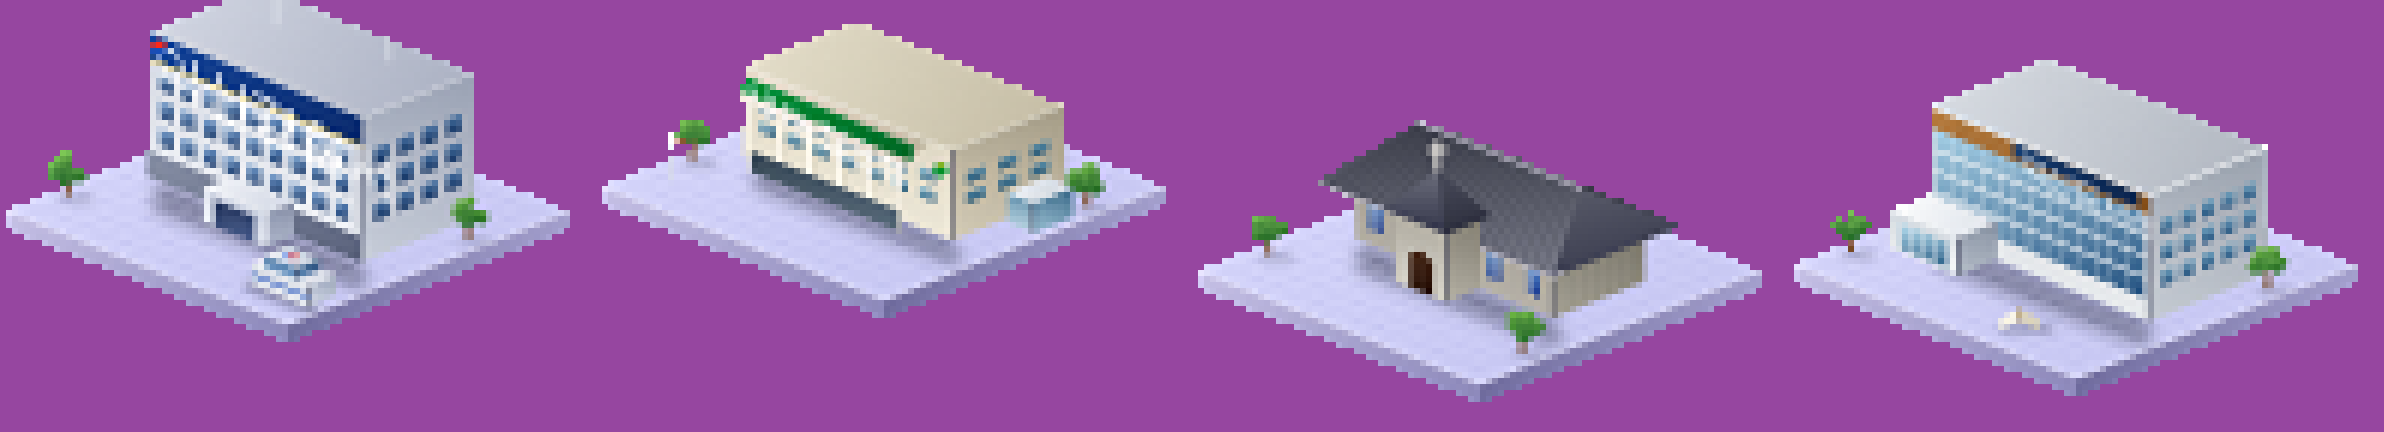
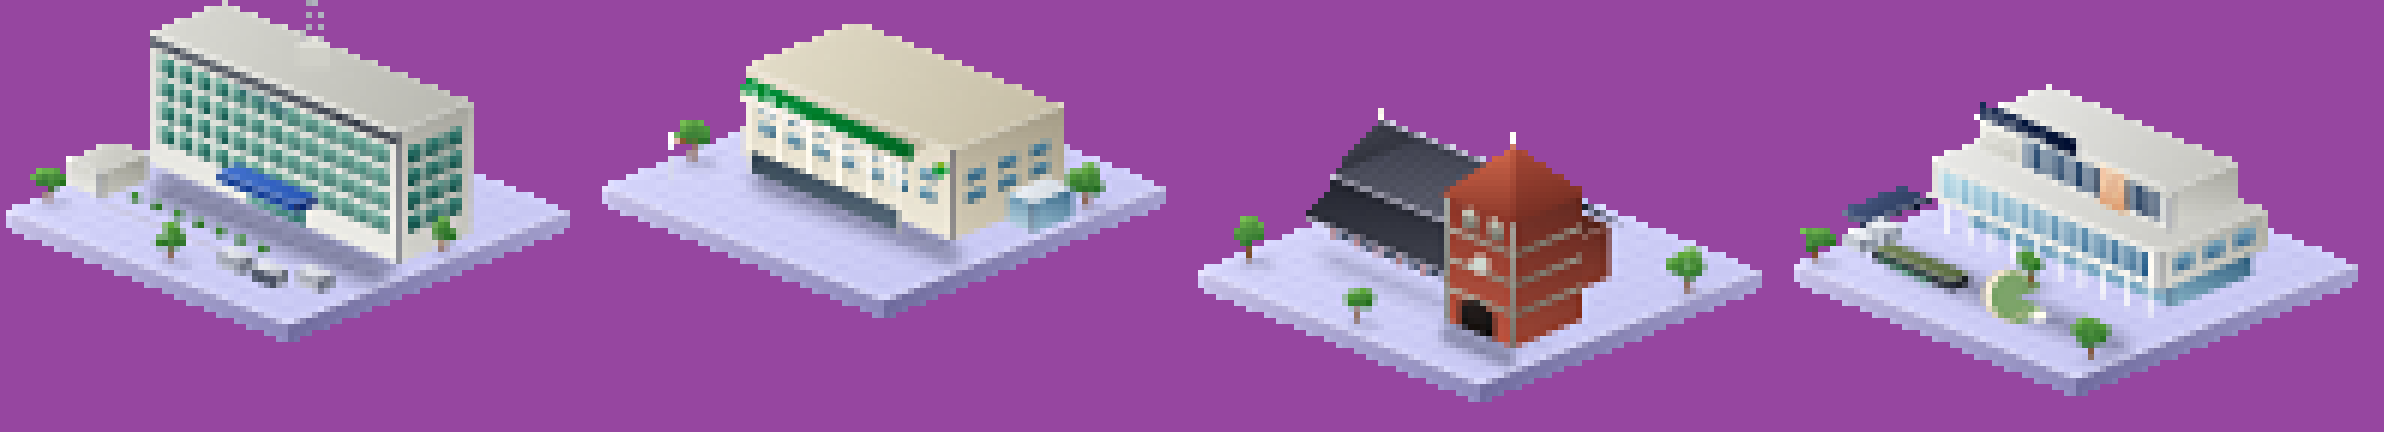
축제 문구(국화축제 복원) + 경찰서·성당·도서관 사진 기반 재작업
Claude-Session: https://claude.ai/code/session_01EzBQD2LzEZVCY5MfsDh6Mu

Changed region(s): [[0.0, 0.0, 0.2173, 0.7222], [0.745, 0.1204, 0.9622, 0.8426], [0.4966, 0.2708, 0.7139, 0.8426]]

diff --git a/seoultycoon/tools/make_iksan_civic.py b/seoultycoon/tools/make_iksan_civic.py
@@ -11,38 +11,49 @@ def sign(s, a0, a1, b, z0, z1, txt, bg, fg, kk=0.70, size=60):
     fw = G(a1 - 0.02, b)[0] - G(a0 + 0.02, b)[0]
     s.text_face(txt, (G(a0 + 0.02, b)[0], G(a0 + 0.02, b, z1 - 0.5)[1]), 0, 0, fw * kk / (size * 0.55 * len(txt)), fg, font=FONT_K, size=size, shear=0.5)
 
-# ---------------- b10 익산경찰서 (흰 석재 + 남색 유리창 + 파란 간판, 지붕 위 경광 안테나, 순찰차) ----------------
+# ---------------- b10 익산경찰서 (사진: 흰 석재 5층 장방형 + 청록 유리 창 격자 + 중앙 안테나탑 + 파란 현관 캐노피) ----------------
 def police():
     s = Sc(59, 10); G = s.G; s.ground(); d = ImageDraw.Draw(s.im)
-    A0, A1, B0, B1, HH = 0.10, 0.86, 0.20, 0.60, 24.0
-    s.shadow([G(0.14, B1), G(A1, B1), G(1.0, 0.72), G(0.26, 0.74)], 100, 10)
-    s.box(A0, A1, B0, B1, HH, (hx('f4f6fa'), hx('c8ceda')), (hx('c8ceda'), hx('9aa2b4')), (hx('d4d8e4'), hx('aab0c2')))
-    # 1층 석재 기단 + 3개 층 창 격자
-    s.grad([G(A0, B1, 0), G(A1, B1, 0), G(A1, B1, 4.2), G(A0, B1, 4.2)], hx('8a92a8'), hx('5a627c'), (0.2, 1))
-    s.win_grid_L(A0 + 0.03, A1 - 0.03, B1, 5.0, 19.0, 9, 3, hx('7aa4d4'), hx('1e3a68'), pad=0.20)
-    s.win_grid_R(B0 + 0.03, B1 - 0.03, A1, 5.0, 19.0, 4, 3, hx('5a84b4'), hx('16305a'), pad=0.20)
-    for k in range(1, 9): s.line([G(A0 + 0.03 + (A1 - A0 - 0.06) * k / 9, B1, 4.4), G(A0 + 0.03 + (A1 - A0 - 0.06) * k / 9, B1, 19.6)], hx('e8ecf4', 150), 2)
-    # 파란 간판 띠 + 글씨
-    sign(s, A0, A1, B1, 19.6, 24.0, '익산경찰서', (hx('1c4ca0'), hx('0e2c6c')), hx('ffffff'), 0.66)
-    s.line([G(A0, B1, 19.6), G(A1, B1, 19.6)], hx('e8c030'), 3)
-    # 중앙 현관 돌출 캐노피 + 기둥
-    s.box(0.40, 0.62, B1, B1 + 0.10, 5.6, (hx('e4e8f2'), hx('b8c0d4')), (hx('b0b8cc'), hx('8890a8')), (hx('f4f6fa'), hx('d0d6e4')))
-    s.grad([G(0.44, B1 + 0.10, 0), G(0.58, B1 + 0.10, 0), G(0.58, B1 + 0.10, 4.2), G(0.44, B1 + 0.10, 4.2)], hx('2a3a60'), hx('4c6090'), (0, 1))
-    for a in (0.41, 0.61): s.line([G(a, B1 + 0.09, 0), G(a, B1 + 0.09, 5.4)], hx('f4f6fc'), 5)
-    # 옥상 안테나 + 경광등
-    x, y = G(0.30, 0.34, HH); d.line([(x, y), (x, y - 70)], fill=hx('dfe3ec'), width=5); d.ellipse([x - 9, y - 82, x + 9, y - 64], fill=hx('e83030'))
-    x, y = G(0.66, 0.30, HH); d.line([(x, y), (x, y - 44)], fill=hx('dfe3ec'), width=4)
-    # 태극 마크(간판 왼쪽)
-    x, y = G(0.14, B1, 22.0); d.ellipse([x - 10, y - 10, x + 10, y + 10], fill=hx('e03030')); d.pieslice([x - 10, y - 10, x + 10, y + 10], 0, 180, fill=hx('2a50b0'))
-    # 앞마당: 순찰차(흰 바탕 파란 줄) + 가로수
-    for (a, b) in ((0.76, 0.84),):
-        p = [G(a, b - 0.05), G(a + 0.20, b - 0.05), G(a + 0.20, b + 0.05), G(a, b + 0.05)]
-        s.shadow([G(a - 0.02, b + 0.02), G(a + 0.22, b + 0.02), G(a + 0.24, b + 0.08), G(a, b + 0.08)], 90, 5)
-        s.box(a, a + 0.20, b - 0.05, b + 0.05, 3.4, (hx('f6f8fc'), hx('c0c8d8')), (hx('d4dae8'), hx('9aa4ba')), (hx('f0f2f8'), hx('d4d8e4')))
-        s.line([G(a, b + 0.05, 1.7), G(a + 0.20, b + 0.05, 1.7)], hx('2a58c0'), 4)
-        s.box(a + 0.04, a + 0.15, b - 0.04, b + 0.04, 2.0, (hx('9cc4e8'), hx('385e8c')), (hx('7aa0cc'), hx('284870')), (hx('e8ecf4'), hx('c0c8d8')), z0=3.4)
-        x, y = G(a + 0.10, b, 5.4); d.rectangle([x - 5, y - 3, x + 5, y + 1], fill=hx('e83030')); d.rectangle([x - 12, y - 3, x - 6, y + 1], fill=hx('2a58e0'))
-    s.tree(0.04, 0.82, 0.7); s.tree(0.94, 0.30, 0.7)
+    A0, A1, B0, B1, HH = 0.05, 0.93, 0.28, 0.54, 22.0
+    s.shadow([G(0.10, B1), G(A1, B1), G(1.0, 0.68), G(0.20, 0.70)], 100, 10)
+    s.box(A0, A1, B0, B1, HH, (hx('f6f6f2'), hx('cfcfc8')), (hx('d6d6d0'), hx('a4a49c')), (hx('dcdcd6'), hx('b8b8b0')))
+    # 옥상 난간 아래 작은 창 띠 + 4개 층의 청록 유리 창(흰 프레임) 격자
+    s.grad([G(A0, B1, 19.6), G(A1, B1, 19.6), G(A1, B1, 21.2), G(A0, B1, 21.2)], hx('4a5260'), hx('2a303c'), (0, 1))
+    for k in range(1, 40): s.line([G(A0 + (A1 - A0) * k / 40, B1, 19.6), G(A0 + (A1 - A0) * k / 40, B1, 21.2)], hx('e8e8e0', 200), 2)
+    cols = 13
+    for fl in range(4):
+        z0 = 4.4 + fl * 3.8; z1 = z0 + 2.8
+        for i in range(cols):
+            a0 = A0 + 0.03 + (A1 - A0 - 0.06) * (i + 0.12) / cols; a1 = A0 + 0.03 + (A1 - A0 - 0.06) * (i + 0.88) / cols
+            s.grad([G(a0, B1, z0), G(a1, B1, z0), G(a1, B1, z1), G(a0, B1, z1)], hx('6ab4a0'), hx('1e5a52'), (0.2, 1))
+            s.line([G((a0 + a1) / 2, B1, z0), G((a0 + a1) / 2, B1, z1)], hx('e8f0ec', 170), 2)
+    for fl in range(4):
+        z0 = 4.4 + fl * 3.8; z1 = z0 + 2.8
+        for i in range(3):
+            b0 = B0 + 0.03 + (B1 - B0 - 0.06) * (i + 0.12) / 3; b1 = B0 + 0.03 + (B1 - B0 - 0.06) * (i + 0.88) / 3
+            s.grad([G(A1, b0, z0), G(A1, b1, z0), G(A1, b1, z1), G(A1, b0, z1)], hx('4a9488'), hx('164640'), (0.2, 1))
+    # 간판 띠 '익산경찰서'(2층 위 흰 벽 위의 짙은 글씨)
+    fw = G(0.66, B1)[0] - G(0.34, B1)[0]
+    s.text_face('익산경찰서', (G(0.36, B1)[0], G(0.36, B1, 19.4)[1]), 0, 0, fw * 0.60 / 320.0, hx('1c3a5c'), font=FONT_K, size=60, shear=0.5)
+    # 1층 중앙 유리 현관 + 파란 캐노피
+    s.grad([G(0.40, B1, 0), G(0.60, B1, 0), G(0.60, B1, 4.0), G(0.40, B1, 4.0)], hx('9cd4cc'), hx('2a6a64'), (0, 1))
+    s.box(0.36, 0.64, B1, B1 + 0.07, 1.6, (hx('2a58b4'), hx('163a84')), (hx('1c3c88'), hx('102a64')), (hx('4a78d0'), hx('2a58b4')), z0=4.2)
+    s.line([G(0.36, B1 + 0.07, 4.2), G(0.64, B1 + 0.07, 4.2)], hx('e8f0ff'), 2)
+    # 중앙 안테나 철탑(격자 탑)
+    cx, cy = G(0.50, 0.41, HH); d.rectangle([cx - 22, cy - 30, cx + 22, cy], fill=hx('d0d0c8')); d.polygon([(cx - 22, cy - 30), (cx + 22, cy - 30), (cx + 15, cy - 38), (cx - 15, cy - 38)], fill=hx('e4e4de'))
+    for lv in range(5):
+        y0 = cy - 38 - lv * 17; y1 = y0 - 17; hw0 = 13 - lv * 1.4; hw1 = 13 - (lv + 1) * 1.4
+        d.line([(cx - hw0, y0), (cx - hw1, y1)], fill=hx('a8aab4'), width=3); d.line([(cx + hw0, y0), (cx + hw1, y1)], fill=hx('a8aab4'), width=3)
+        d.line([(cx - hw0, y0), (cx + hw1, y1)], fill=hx('8a8c98'), width=2); d.line([(cx + hw0, y0), (cx - hw1, y1)], fill=hx('8a8c98'), width=2); d.line([(cx - hw1, y1), (cx + hw1, y1)], fill=hx('c4c6d0'), width=3)
+    d.line([(cx, cy - 38 - 5 * 17), (cx, cy - 38 - 5 * 17 - 24)], fill=hx('d8dae2'), width=3)
+    # 왼쪽 별채(흰 단층) + 오른쪽 주차장(차량 몇 대) + 앞 화단 + 가로수
+    s.box(0.0, 0.12, 0.62, 0.78, 4.4, (hx('f4f4f0'), hx('c8c8c0')), (hx('c8c8c0'), hx('98988e')), (hx('e0e0da'), hx('c0c0b8')))
+    for (a, b, col) in ((0.62, 0.82, 'd8dce4'), (0.74, 0.82, '3a4458'), (0.84, 0.76, 'e8e8ee')):
+        s.box(a, a + 0.08, b, b + 0.05, 2.4, (hx(col), hx('7a8090')), (hx('9aa0ac'), hx('5c6270')), (hx('f0f2f6'), hx('c4c8d2')))
+    for k in range(7):
+        x, y = G(0.18 + 0.075 * k, 0.72); d.ellipse([x - 7, y - 5, x + 7, y + 4], fill=hx('3e7a3c')); d.ellipse([x - 4, y - 9, x + 3, y - 3], fill=hx('5ca058'))
+    s.line([G(0.14, 0.80), G(0.58, 0.80)], hx('c8c6d8'), 4)
+    s.tree(0.03, 0.88, 0.6); s.tree(0.50, 0.92, 0.6); s.tree(0.95, 0.40, 0.6)
     return s.finish()
 
 # ---------------- b12 은행 (NH농협은행 익산: 흰 석재 + 기둥 + 녹색 간판) ----------------
@@ -68,67 +79,98 @@ def bank():
     s.tree(0.04, 0.72, 0.7); s.tree(0.94, 0.22, 0.7)
     return s.finish()
 
-# ---------------- b13 나바위성당 (한식 팔작지붕 + 회벽돌 + 앞 종탑 + 십자가) ----------------
+# ---------------- b13 나바위성당 (사진: 붉은 벽돌 + 회색 석재 모서리, 검은 기와 겹지붕 장방 본당, 오른쪽 앞 높은 종탑) ----------------
 def church():
     s = Sc(69, 13); G = s.G; s.ground(); d = ImageDraw.Draw(s.im)
-    A0, A1, B0, B1, HH = 0.14, 0.84, 0.26, 0.58, 9.0
-    s.shadow([G(0.16, B1), G(A1, B1), G(1.0, 0.70), G(0.28, 0.72)], 100, 10)
-    # 본당 벽: 회청색 벽돌 + 줄눈
-    s.box(A0, A1, B0, B1, HH, (hx('c8c4bc'), hx('9c978c')), (hx('a8a498'), hx('787468')), (hx('484c58'), hx('2c2e38')))
-    for z in range(1, 9): s.line([G(A0, B1, z), G(A1, B1, z)], hx('78746a', 90), 2)
-    for k in range(1, 8): s.line([G(A1, B0 + (B1 - B0) * k / 8, 0), G(A1, B0 + (B1 - B0) * k / 8, HH)], hx('606258', 80), 2)
-    # 아치창(스테인드글라스 푸른색)
-    for k in range(5):
-        a = A0 + 0.07 + (A1 - A0 - 0.14) * k / 4
-        s.grad([G(a - 0.022, B1, 2.4), G(a + 0.022, B1, 2.4), G(a + 0.022, B1, 6.6), G(a, B1, 7.6), G(a - 0.022, B1, 6.6)], hx('6a9ad4'), hx('243e8c'), (0.2, 1))
-        s.line([G(a, B1, 2.4), G(a, B1, 7.4)], hx('e8e0d0'), 2)
-    # 한식 팔작지붕: 앞·뒤 경사면 + 처마 곡선 + 기와 줄
-    ov = 0.07; zr = HH + 0.4; RZ = 8.0; bm = (B0 + B1) / 2
-    s.grad([G(A0 - ov, B0 - ov, zr), G(A1 + ov, B0 - ov, zr), G(A1 - 0.06, bm, zr + RZ), G(A0 + 0.06, bm, zr + RZ)], hx('4a4c58'), hx('2a2c36'), (0, 1))
-    s.grad([G(A0 - ov, B1 + ov, zr), G(A1 + ov, B1 + ov, zr), G(A1 - 0.06, bm, zr + RZ), G(A0 + 0.06, bm, zr + RZ)], hx('7a7c8a'), hx('3e404c'), (0, -1), 3)
-    s.grad([G(A1 + ov, B0 - ov, zr), G(A1 + ov, B1 + ov, zr), G(A1 - 0.06, bm, zr + RZ)], hx('5a5c6a'), hx('34364a'), (0.3, 1))
-    for k in range(1, 22):
-        t = k / 22; a = A0 - ov + (A1 - A0 + 2 * ov) * t; at = A0 + 0.06 + (A1 - A0 - 0.12) * t
-        s.line([G(a, B1 + ov, zr), G(at, bm, zr + RZ)], hx('2a2c38', 120), 2)
-    s.line([G(A0 - ov, B1 + ov, zr), G(A1 + ov, B1 + ov, zr)], hx('c8c4d0'), 4)
-    s.line([G(A0 + 0.06, bm, zr + RZ), G(A1 - 0.06, bm, zr + RZ)], hx('b4b0c0'), 5)
-    for aa in (A0 - ov, A1 + ov):                                                        # 추녀 끝 살짝 들림
-        x, y = G(aa, B1 + ov, zr); d.line([(x, y), (x + (14 if aa > 0.5 else -14), y - 8)], fill=hx('c8c4d0'), width=4)
-    # 앞쪽 작은 종탑(출입부) + 십자가
-    s.box(0.40, 0.58, B1, B1 + 0.12, 12.0, (hx('d8d4cc'), hx('aaa69a')), (hx('b4b0a4'), hx('807c70')), (hx('4a4c58'), hx('2e303a')))
-    s.grad([G(0.45, B1 + 0.12, 0), G(0.53, B1 + 0.12, 0), G(0.53, B1 + 0.12, 5.6), G(0.49, B1 + 0.12, 6.8), G(0.45, B1 + 0.12, 5.6)], hx('4a2c1c'), hx('2c1810'), (0, 1))
-    s.grad([G(0.38, B1 + 0.14, 12.0), G(0.60, B1 + 0.14, 12.0), G(0.49, B1 + 0.06, 19.0)], hx('6c6e7c'), hx('34364a'), (0, 1))
-    s.grad([G(0.49, B1 + 0.06, 19.0), G(0.60, B1 + 0.14, 12.0), G(0.60, B1 - 0.02, 12.0)], hx('4a4c5c'), hx('2a2c3a'), (0.3, 1))
-    x, y = G(0.49, B1 + 0.06, 19.0); d.line([(x, y), (x, y - 40)], fill=hx('f4f0e8'), width=6); d.line([(x - 12, y - 28), (x + 12, y - 28)], fill=hx('f4f0e8'), width=6)
-    s.tree(0.05, 0.80, 0.7); s.tree(0.93, 0.78, 0.7)
+    A0, A1, B0, B1 = 0.08, 0.76, 0.30, 0.56
+    BR = (hx('c05a46'), hx('84382c')); BR2 = (hx('9c4636'), hx('642a22')); ST = (hx('b8b4a8'), hx('807c70'))
+    s.shadow([G(0.12, B1 + 0.14), G(A1 + 0.12, B1 + 0.14), G(1.0, 0.72), G(0.22, 0.74)], 100, 10)
+    # 본당 벽: 낮은 붉은 벽돌 + 처마 아래 가는 창 띠(잔 창 열) → 위로 붉은 벽
+    s.box(A0, A1, B0, B1, 8.6, BR, BR2, (hx('7a3a2e'), hx('5a2a22')))
+    for z in range(1, 9): s.line([G(A0, B1, z), G(A1, B1, z)], hx('6a2e24', 70), 2)
+    for k in range(0, 17):
+        a = A0 + 0.04 + (A1 - A0 - 0.08) * k / 16
+        s.grad([G(a - 0.008, B1, 5.4), G(a + 0.008, B1, 5.4), G(a + 0.008, B1, 7.4), G(a - 0.008, B1, 7.4)], hx('e8e4d4'), hx('607890'), (0, 1))
+    # 앞 낮은 회랑(붉은 기둥 + 큰 창) + 그 위 한식 아래 지붕
+    for k in range(0, 9):
+        a = A0 + 0.02 + (A1 - A0 - 0.04) * k / 8
+        s.line([G(a, B1 + 0.06, 0), G(a, B1 + 0.06, 4.2)], hx('8a3e30'), 4)
+    for k in range(0, 8):
+        a0 = A0 + 0.02 + (A1 - A0 - 0.04) * (k + 0.2) / 8; a1 = A0 + 0.02 + (A1 - A0 - 0.04) * (k + 0.8) / 8
+        s.grad([G(a0, B1 + 0.06, 0.5), G(a1, B1 + 0.06, 0.5), G(a1, B1 + 0.06, 3.8), G(a0, B1 + 0.06, 3.8)], hx('7a8aa0'), hx('2a3448'), (0, 1))
+    s.grad([G(A0 - 0.02, B1 + 0.12, 4.0), G(A1 + 0.04, B1 + 0.12, 4.0), G(A1 + 0.04, B1 - 0.01, 8.8), G(A0 - 0.02, B1 - 0.01, 8.8)], hx('4c4e5a'), hx('22242e'), (0, -1), 3)
+    s.line([G(A0 - 0.02, B1 + 0.12, 4.0), G(A1 + 0.04, B1 + 0.12, 4.0)], hx('b8b4c8'), 4)
+    # 본당 큰 지붕: 앞면(밝은 회색 기와) · 뒷면 · 박공 측면 + 기와 줄무늬 + 용마루
+    zr = 8.8; RZ = 7.0; bm = (B0 + B1) / 2
+    s.grad([G(A0 - 0.03, B0 - 0.02, zr), G(A1 + 0.03, B0 - 0.02, zr), G(A1, bm, zr + RZ), G(A0, bm, zr + RZ)], hx('3c3e48'), hx('20222a'), (0, 1))
+    s.grad([G(A0 - 0.03, B1 + 0.02, zr), G(A1 + 0.03, B1 + 0.02, zr), G(A1, bm, zr + RZ), G(A0, bm, zr + RZ)], hx('767888'), hx('3a3c4a'), (0, -1), 3)
+    s.grad([G(A0 - 0.03, B0 - 0.02, zr), G(A0 - 0.03, B1 + 0.02, zr), G(A0, bm, zr + RZ)], hx('4a4c58'), hx('2a2c36'), (0.3, 1))
+    for k in range(1, 30):
+        t = k / 30; s.line([G(A0 - 0.03 + (A1 - A0 + 0.06) * t, B1 + 0.02, zr), G(A0 + (A1 - A0) * t, bm, zr + RZ)], hx('24262e', 130), 2)
+    s.line([G(A0 - 0.03, B1 + 0.02, zr), G(A1 + 0.03, B1 + 0.02, zr)], hx('d8d4e4'), 4); s.line([G(A0, bm, zr + RZ), G(A1, bm, zr + RZ)], hx('c4c0d4'), 5)
+    # 박공 끝 작은 십자가
+    x, y = G(A0, bm, zr + RZ); d.line([(x, y), (x, y - 20)], fill=hx('e8e4dc'), width=4); d.line([(x - 6, y - 14), (x + 6, y - 14)], fill=hx('e8e4dc'), width=4)
+    # 오른쪽 앞 종탑(높은 사각탑): 붉은 벽돌 + 회색 돌띠 + 둥근 창 + 맨 위 루버 아치창 + 붉은 뾰족 지붕 + 십자가
+    TA0, TA1, TB0, TB1, TH = 0.66, 0.90, 0.54, 0.78, 21.0
+    s.shadow([G(TA0, TB1), G(TA1, TB1), G(TA1 + 0.10, TB1 + 0.10), G(TA0 + 0.08, TB1 + 0.10)], 90, 6)
+    s.box(TA0, TA1, TB0, TB1, TH, BR, BR2, (hx('9a4436'), hx('6a2c24')))
+    for z in (5.0, 10.0, 15.0): s.grad([G(TA0, TB1, z), G(TA1, TB1, z), G(TA1, TB1, z + 0.9), G(TA0, TB1, z + 0.9)], ST[0], ST[1], (0, 1)); s.grad([G(TA1, TB0, z), G(TA1, TB1, z), G(TA1, TB1, z + 0.9), G(TA1, TB0, z + 0.9)], hx('9c988c'), hx('686458'), (0, 1))
+    for a in (TA0, TA1 - 0.012): s.grad([G(a, TB1, 0), G(a + 0.012, TB1, 0), G(a + 0.012, TB1, TH), G(a, TB1, TH)], ST[0], ST[1], (0.2, 1))
+    s.grad([G(TA0 + 0.05, TB1, 0), G(TA0 + 0.17, TB1, 0), G(TA0 + 0.17, TB1, 4.0), G(TA0 + 0.11, TB1, 5.4), G(TA0 + 0.05, TB1, 4.0)], hx('2a2220'), hx('141010'), (0, 1))
+    xx, yy = G(TA0 + 0.12, TB1, 11.6); d.ellipse([xx - 12, yy - 12, xx + 12, yy + 12], fill=hx('e0e4dc')); d.ellipse([xx - 8, yy - 8, xx + 8, yy + 8], outline=hx('9a9a90'), width=2)
+    for k in range(2):
+        a = TA0 + 0.06 + k * 0.09
+        s.grad([G(a, TB1, 16.6), G(a + 0.05, TB1, 16.6), G(a + 0.05, TB1, 19.4), G(a + 0.025, TB1, 20.4), G(a, TB1, 19.4)], hx('dcd8c8'), hx('6a6a60'), (0, 1))
+        for z in (17.2, 17.9, 18.6): s.line([G(a, TB1, z), G(a + 0.05, TB1, z)], hx('5a5a52'), 2)
+    px, py = G((TA0 + TA1) / 2, (TB0 + TB1) / 2, TH + 0.2)
+    s.grad([G(TA0 - 0.01, TB1 + 0.01, TH), G(TA1 + 0.01, TB1 + 0.01, TH), (px * 1.0, py - 7.0 * S * 1.0 / 1)], hx('c8604a'), hx('8c3828'), (0, 1)) if False else None
+    apex = (px, py - 64)
+    s.grad([G(TA0 - 0.01, TB1 + 0.01, TH), G(TA1 + 0.01, TB1 + 0.01, TH), apex], hx('d0684c'), hx('8a382a'), (0, 1))
+    s.grad([G(TA1 + 0.01, TB0 - 0.01, TH), G(TA1 + 0.01, TB1 + 0.01, TH), apex], hx('a84a38'), hx('6a281e'), (0.3, 1))
+    d.line([apex, (apex[0], apex[1] - 22)], fill=hx('f0ece4'), width=5); d.line([(apex[0] - 8, apex[1] - 14), (apex[0] + 8, apex[1] - 14)], fill=hx('f0ece4'), width=5)
+    # 출입 아치(종탑 아래 회색 돌 아치) + 마당 가을 나무
+    s.tree(0.04, 0.86, 0.7); s.tree(0.50, 0.94, 0.6); s.tree(0.96, 0.22, 0.7)
     return s.finish()
 
-# ---------------- b20 익산도서관 (유리 커튼월 + 목재 루버 + 책 모양 돌출) ----------------
+# ---------------- b20 도서관 (사진: 흰 모더니즘 3단 매스 · 층마다 내민 흰 슬래브 + 세로 핀 열주 + 초승달 조형물) ----------------
 def library():
     s = Sc(68, 20); G = s.G; s.ground(); d = ImageDraw.Draw(s.im)
-    A0, A1, B0, B1, HH = 0.10, 0.88, 0.20, 0.62, 21.0
-    s.shadow([G(0.14, B1), G(A1, B1), G(1.0, 0.74), G(0.26, 0.76)], 100, 10)
-    s.box(A0, A1, B0, B1, HH, (hx('f2f4f6'), hx('c6ccd4')), (hx('c6ccd4'), hx('9aa2ae')), (hx('dadee4'), hx('b0b6c0')))
-    # 유리 커튼월 4개 층 + 층별 가로 띠
-    s.grad([G(A0 + 0.02, B1, 3.6), G(A1 - 0.02, B1, 3.6), G(A1 - 0.02, B1, 17.6), G(A0 + 0.02, B1, 17.6)], hx('a8d0e4'), hx('2e5a86'), (0.2, 1))
-    for z in (7.1, 10.6, 14.1): s.line([G(A0 + 0.02, B1, z), G(A1 - 0.02, B1, z)], hx('f4f6f8'), 4)
-    for k in range(1, 13): s.line([G(A0 + 0.02 + (A1 - A0 - 0.04) * k / 13, B1, 3.6), G(A0 + 0.02 + (A1 - A0 - 0.04) * k / 13, B1, 17.6)], hx('e8eef4', 150), 2)
-    for k in range(3, 8): s.line([G(A0 + 0.02 + (A1 - A0 - 0.04) * (k - 0.5) / 13, B1, 3.6), G(A0 + 0.02 + (A1 - A0 - 0.04) * (k + 0.5) / 13, B1, 17.6)], hx('ffffff', 70), 2)
-    s.win_grid_R(B0 + 0.03, B1 - 0.03, A1, 4.0, 17.0, 5, 3, hx('88b4cc'), hx('244e78'), pad=0.20)
-    # 목재 루버 띠(상단) + 간판
-    s.grad([G(A0, B1, 17.6), G(A1, B1, 17.6), G(A1, B1, 21.0), G(A0, B1, 21.0)], hx('c88c4c'), hx('8a5a2c'), (0.2, 1), 4)
-    for k in range(1, 40): s.line([G(A0 + (A1 - A0) * k / 40, B1, 17.6), G(A0 + (A1 - A0) * k / 40, B1, 21.0)], hx('5a3818', 120), 2)
-    sign(s, 0.40, 0.84, B1, 18.2, 20.6, '익산도서관', (hx('284a78'), hx('142a50')), hx('ffffff'), 0.66, 56)
-    # 1층 출입 캐노피 + 책 모양 돌출(앞 왼쪽 낮은 동)
-    s.box(0.10, 0.34, B1, B1 + 0.14, 6.4, (hx('f6f8fa'), hx('c8d0d8')), (hx('b4bcc8'), hx('8a94a4')), (hx('ffffff'), hx('dce2ea')))
-    s.grad([G(0.14, B1 + 0.14, 0.6), G(0.30, B1 + 0.14, 0.6), G(0.30, B1 + 0.14, 4.8), G(0.14, B1 + 0.14, 4.8)], hx('bce0f0'), hx('3a6a90'), (0, 1))
-    for k in range(1, 4): s.line([G(0.14 + 0.16 * k / 4, B1 + 0.14, 0.6), G(0.14 + 0.16 * k / 4, B1 + 0.14, 4.8)], hx('f4f6f8'), 2)
-    # 옥상 정원 난간 + 앞마당 책 모양 조형물
-    s.line([G(A0, B1, 21.0), G(A1, B1, 21.0), G(A1, B0, 21.0)], hx('f6f8fa'), 4)
-    x, y = G(0.66, 0.86); s.shadow([(x - 30, y + 2), (x + 40, y + 2), (x + 48, y + 12), (x - 22, y + 12)], 80, 5)
-    d.polygon([(x - 26, y - 6), (x, y - 20), (x, y - 4), (x - 26, y + 8)], fill=hx('f4f0e4')); d.polygon([(x, y - 20), (x + 26, y - 6), (x + 26, y + 8), (x, y - 4)], fill=hx('d8d0bc'))
-    d.line([(x, y - 20), (x, y - 4)], fill=hx('8a6a3a'), width=3)
-    s.tree(0.04, 0.84, 0.7); s.tree(0.94, 0.26, 0.7)
+    s.shadow([G(0.10, 0.74), G(0.92, 0.74), G(1.0, 0.82), G(0.18, 0.84)], 100, 10)
+    GL = (hx('b4dcea'), hx('3a6a92')); WL = (hx('fbfbf8'), hx('d0d0ca')); WR = (hx('d8d8d2'), hx('a6a69e')); RF = (hx('ececea'), hx('c4c4be'))
+    # 1층: 안쪽으로 들어간 유리 로비 + 흰 필로티 기둥
+    s.box(0.14, 0.86, 0.24, 0.52, 5.0, GL, (hx('8ab4c8'), hx('2c5878')), RF)
+    for k in range(0, 10): s.line([G(0.14 + 0.72 * k / 9, 0.60, 0), G(0.14 + 0.72 * k / 9, 0.60, 6.4)], hx('fdfdfa'), 5)
+    # 2층 큰 슬래브(앞으로 내밈) + 앞 열주 핀
+    s.box(0.08, 0.90, 0.22, 0.60, 6.4, WL, WR, RF, z0=5.0)
+    s.grad([G(0.12, 0.60, 6.2), G(0.86, 0.60, 6.2), G(0.86, 0.60, 10.4), G(0.12, 0.60, 10.4)], GL[0], GL[1], (0.2, 1))
+    for k in range(0, 22): s.line([G(0.12 + 0.74 * k / 21, 0.60, 5.4), G(0.12 + 0.74 * k / 21, 0.60, 11.0)], hx('fdfdfa'), 3)
+    s.win_grid_R(0.22 + 0.03, 0.60 - 0.03, 0.90, 6.2, 10.4, 3, 1, hx('90bcd0'), hx('2c587c'), pad=0.18)
+    # 3층: 뒤로 물러난 매스 + 세로 핀(루버) + 오른쪽 짙은 유리
+    s.box(0.14, 0.82, 0.24, 0.48, 6.6, WL, WR, RF, z0=11.4)
+    s.grad([G(0.30, 0.48, 12.0), G(0.78, 0.48, 12.0), G(0.78, 0.48, 17.4), G(0.30, 0.48, 17.4)], hx('4a6a8c'), hx('1c3252'), (0.2, 1))
+    for k in range(0, 17): s.line([G(0.30 + 0.48 * k / 16, 0.485, 12.0), G(0.30 + 0.48 * k / 16, 0.485, 17.6)], hx('f8f8f4'), 3)
+    s.grad([G(0.14, 0.48, 12.0), G(0.28, 0.48, 12.0), G(0.28, 0.48, 17.0), G(0.14, 0.48, 17.0)], hx('f4f4ee'), hx('cacac2'), (0.2, 1))
+    for z in (13.6, 15.2): s.line([G(0.14, 0.485, z), G(0.28, 0.485, z)], hx('b8b8b0'), 2)
+    s.grad([G(0.14, 0.50, 17.4), G(0.84, 0.50, 17.4), G(0.84, 0.50, 18.4), G(0.14, 0.50, 18.4)], hx('f6f6f2'), hx('c8c8c2'), (0, 1))
+    # 간판: 초록·남색 '익산도서관'
+    s.grad([G(0.16, 0.50, 18.0), G(0.50, 0.50, 18.0), G(0.50, 0.50, 20.6), G(0.16, 0.50, 20.6)], hx('1c2e56'), hx('0e1a38'), (0.2, 1))
+    fw = G(0.50, 0.50)[0] - G(0.17, 0.50)[0]
+    s.text_face('익산도서관', (G(0.17, 0.50)[0], G(0.17, 0.50, 20.2)[1]), 0, 0, fw * 0.74 / 320.0, hx('f8f8f0'), font=FONT_K, size=60, shear=0.5)
+    # 현수막(오른쪽 세로 배너) + 앞마당 초승달 조형물 + 연석 화단 간판석
+    s.grad([G(0.58, 0.50, 11.6), G(0.68, 0.50, 11.6), G(0.68, 0.50, 18.4), G(0.58, 0.50, 18.4)], hx('f6e8d0'), hx('e0a878'), (0.2, 1))
+    for k in range(5): s.line([G(0.59, 0.505, 12.6 + k * 1.2), G(0.67, 0.505, 12.6 + k * 1.2)], hx('c85a3a', 160), 3)
+    s.box(0.12, 0.40, 0.78, 0.84, 1.8, (hx('4a5058'), hx('2a2e34')), (hx('343840'), hx('1a1c20')), (hx('7a8a60'), hx('5a6a44')))
+    fw = G(0.40, 0.84)[0] - G(0.14, 0.84)[0]
+    s.text_face('익산도서관', (G(0.14, 0.84)[0], G(0.14, 0.84, 1.6)[1]), 0, 0, fw * 0.72 / 320.0, hx('4ad07a'), font=FONT_K, size=60, shear=0.5)
+    cx, cy = G(0.62, 0.86, 0)
+    d.pieslice([cx - 34, cy - 66, cx + 34, cy + 2], 40, 320, fill=hx('f2ead6')); d.pieslice([cx - 22, cy - 62, cx + 46, cy + 6], 20, 340, fill=hx('7da46a'))
+    d.arc([cx - 34, cy - 66, cx + 34, cy + 2], 40, 320, fill=hx('d4c8a8'), width=3)
+    d.ellipse([cx + 30, cy - 12, cx + 52, cy + 4], fill=hx('f6f2e8'))
+    # 왼쪽 태양광 지붕 주차장 + 차
+    s.box(0.0, 0.10, 0.62, 0.84, 0.7, (hx('3a4a68'), hx('1e2a44')), (hx('2a3858'), hx('141c34')), (hx('4a5c84'), hx('2c3a5c')), z0=5.0)
+    for (a, b) in ((0.01, 0.70), (0.01, 0.78)):
+        s.box(a, a + 0.07, b, b + 0.05, 2.2, (hx('e4e8ee'), hx('9aa2b0')), (hx('b4bcc8'), hx('7a8494')), (hx('f2f4f8'), hx('cfd4de')))
+    s.tree(0.50, 0.66, 0.6); s.tree(0.93, 0.88, 0.7); s.tree(0.02, 0.94, 0.6)
     return s.finish()
 
 if __name__ == '__main__':
